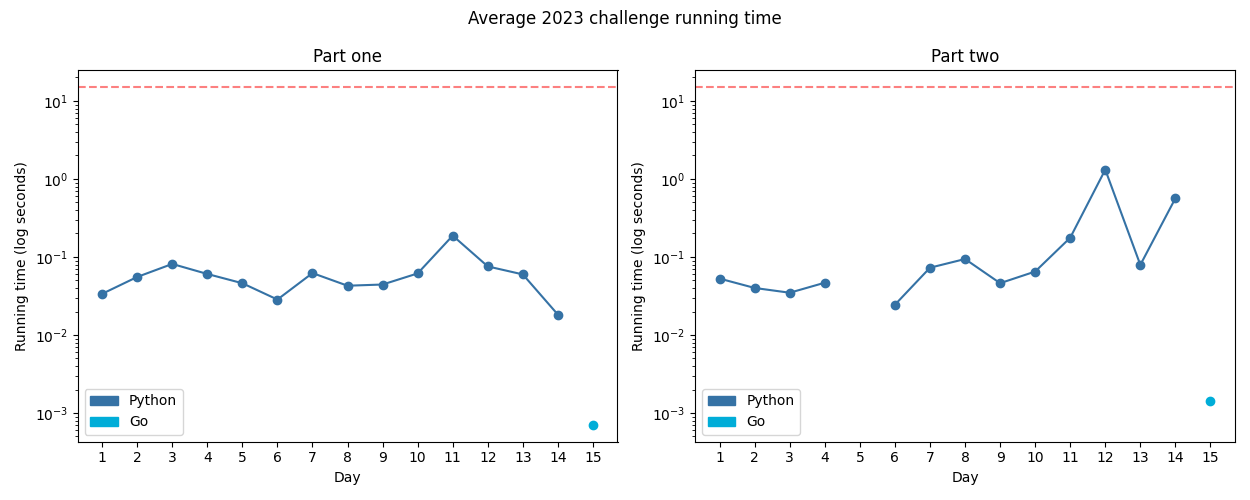
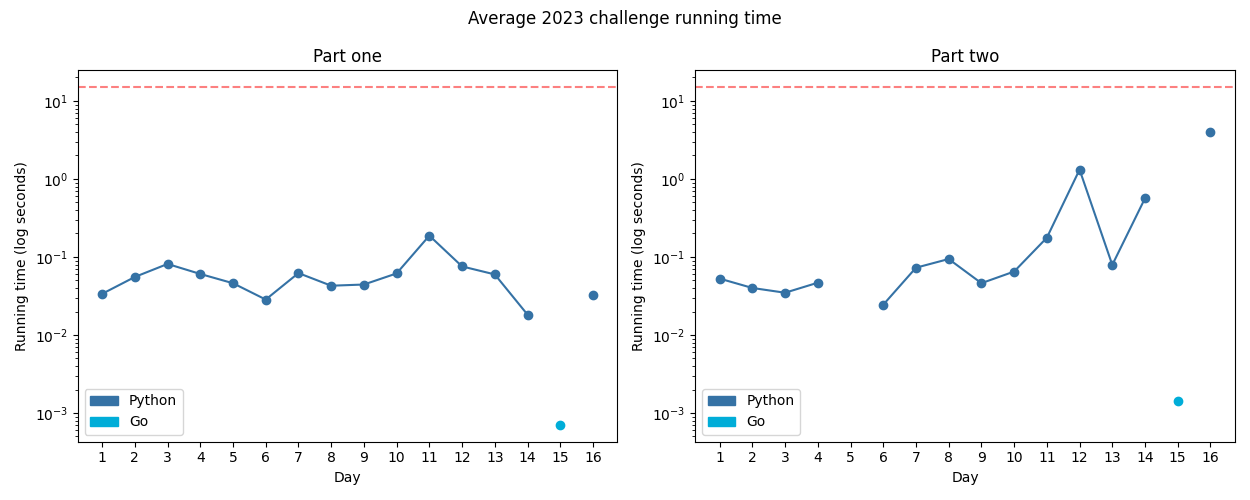
2023.16

diff --git a/challenges/2023/16-theFloorWillBeLava/main.py b/challenges/2023/16-theFloorWillBeLava/main.py
@@ -1,0 +1,137 @@
+import gridutil.grid as gu
+import gridutil.coord as cu
+from enum import Enum, auto
+import sys
+from collections import defaultdict
+
+
+class Direction(Enum):
+    Up = auto()
+    Down = auto()
+    Left = auto()
+    Right = auto()
+
+
+DIRECTION_DELTAS = {
+    Direction.Up: (0, -1),
+    Direction.Down: (0, 1),
+    Direction.Left: (-1, 0),
+    Direction.Right: (1, 0),
+}
+
+
+def parse(instr: str) -> gu.Grid:
+    return gu.parse(instr)
+
+
+def get_n_energised(
+    box: gu.Grid, start_pos: cu.Coordinate, start_directon: Direction
+) -> int:
+    energised = defaultdict(lambda: [])
+    beams = [(start_pos, start_directon)]
+
+    while beams:
+        (pos, direction) = beams.pop(0)
+
+        while True:
+            if pos not in box:
+                break
+
+            if pos in energised and direction in energised[pos]:
+                break
+            else:
+                energised[pos].append(direction)
+
+            at_pos = box[pos]
+
+            match at_pos:
+                case "/":
+                    match direction:
+                        case Direction.Up:
+                            direction = Direction.Right
+                        case Direction.Down:
+                            direction = Direction.Left
+                        case Direction.Left:
+                            direction = Direction.Down
+                        case Direction.Right:
+                            direction = Direction.Up
+
+                case "\\":
+                    match direction:
+                        case Direction.Up:
+                            direction = Direction.Left
+                        case Direction.Down:
+                            direction = Direction.Right
+                        case Direction.Left:
+                            direction = Direction.Up
+                        case Direction.Right:
+                            direction = Direction.Down
+
+                case "-":
+                    if not (
+                        direction == Direction.Left or direction == direction.Right
+                    ):
+                        beams.append(
+                            (
+                                (cu.add(pos, DIRECTION_DELTAS[Direction.Left])),
+                                Direction.Left,
+                            )
+                        )
+                        direction = Direction.Right
+
+                case "|":
+                    if not (direction == Direction.Up or direction == direction.Down):
+                        beams.append(
+                            (
+                                (cu.add(pos, DIRECTION_DELTAS[Direction.Up])),
+                                Direction.Up,
+                            )
+                        )
+                        direction = Direction.Down
+
+            pos = cu.add(pos, DIRECTION_DELTAS[direction])
+
+    return len(energised)
+
+
+def one(instr: str):
+    box = parse(instr)
+    return get_n_energised(box, (0, 0), Direction.Right)
+
+
+def two(instr: str):
+    box = parse(instr)
+
+    max_x = gu.get_max_x(box)
+    max_y = gu.get_max_y(box)
+
+    starts = [(0, y) for y in range(max_y + 1)]
+    starts += [(max_x, y) for y in range(max_y + 1)]
+    starts += [(x, 0) for x in range(1, max_x)]
+    starts += [(x, max_y) for x in range(1, max_x)]
+
+    max_energised = 0
+
+    for start in starts:
+        for direction in Direction:
+            x = get_n_energised(box, start, direction)
+            if x > max_energised:
+                max_energised = x
+
+    return max_energised
+
+
+def _debug(*args, **kwargs):
+    kwargs["file"] = sys.stderr
+    print(*args, **kwargs)
+
+
+if __name__ == "__main__":
+    if len(sys.argv) < 2 or sys.argv[1] not in ["1", "2"]:
+        print("Missing day argument", file=sys.stderr)
+        sys.exit(1)
+    inp = sys.stdin.read().strip()
+    if sys.argv[1] == "1":
+        print(one(inp))
+    else:
+        print(two(inp))

diff --git a/challenges/2023/README.md b/challenges/2023/README.md
@@ -29,3 +29,4 @@ A day denoted with a star means it has a visualisation.
 | 13 - Point of Incidence | ★ ★ | Python | This one made me feel slightly intelligent. |
 | 14* - Parabolic Reflector Dish | ★ ★ | Python | Why do I always overcomplicate cycle detection?! |
 | 15 - Lens Library | ★ ★ | Go | Still took some brainpower but this time the brainpower was needed to work out what the problem was, *not* to work out how to solve the problem. |
+| 16 - The Floor Will Be Lava | ★ ★ | Python | Pathfinding, sort of, but also brute forceable?? |

diff --git a/challenges/2023/16-theFloorWillBeLava/README.md b/challenges/2023/16-theFloorWillBeLava/README.md
@@ -1,0 +1,1 @@
+# [Day 16: The Floor Will Be Lava](https://adventofcode.com/2023/day/16)
